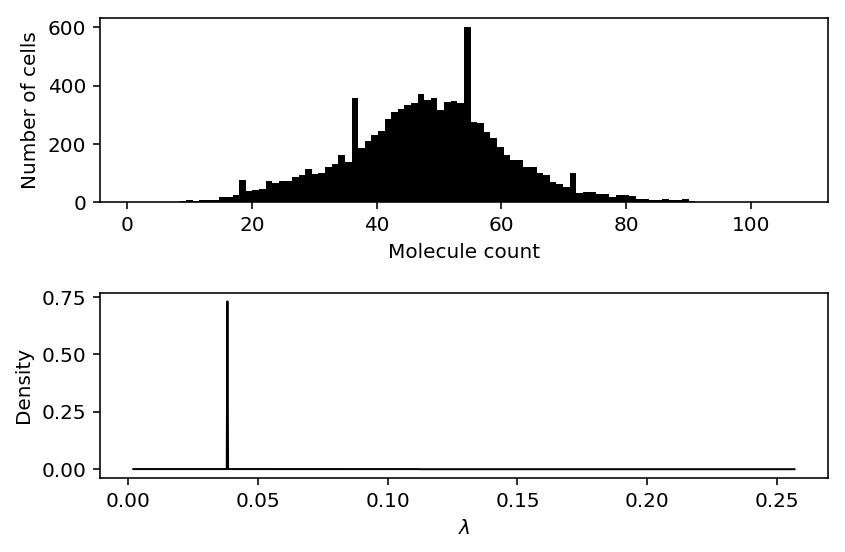
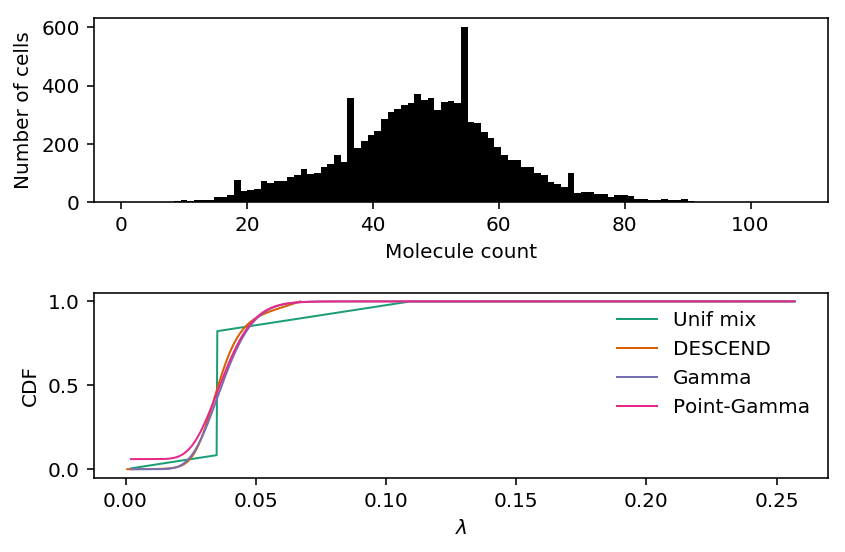
Compare deconvolution methods on one example

diff --git a/docs/deconvolution.html b/docs/deconvolution.html
@@ -1,7 +1,7 @@
 <!DOCTYPE html>
 <html lang="en">
 <head>
-<!-- 2019-03-21 Thu 21:39 -->
+<!-- 2019-03-22 Fri 23:17 -->
 <meta charset="utf-8">
 <meta name="viewport" content="width=device-width, initial-scale=1">
 <title>Comparison of expression deconvolution approaches</title>
@@ -315,8 +315,8 @@ generalization for different choices of \(\mathcal{G}\) in real data.
 rpy2.robjects.pandas2ri.activate()
 rpy2.robjects.numpy2ri.activate()
 
-<span class="org-variable-name">descend</span> = rpy2.robjects.packages.importr(<span class="org-string">'descend'</span>)
 <span class="org-variable-name">ashr</span> = rpy2.robjects.packages.importr(<span class="org-string">'ashr'</span>)
+<span class="org-variable-name">descend</span> = rpy2.robjects.packages.importr(<span class="org-string">'descend'</span>)
 </pre>
 </div>
 
@@ -371,20 +371,19 @@ to recover \(\lambda_{ij}\). We can trade off flexibility and complexity of
 <li><b>NB:</b> \(g_j = \mathrm{Gamma}(\cdot)\)</li>
 <li><b>ZINB:</b> \(g_j = \pi_j \delta_0(\cdot) + (1 - \pi_j)
       \mathrm{Gamma}(\cdot)\)</li>
-<li><b>Unimodal:</b> \(g_j = \sum_k \pi_k \mathrm{Uniform}(\lambda_0, a_{jk})\),
-where \(\lambda_0\) is the mode (jointly estimated from the
-data). Implemented in <code>ashR</code>.</li>
-<li><b>Spline:</b> \(g_j = \exp(\mathbf{Q}'\alpha - \phi(\alpha))\), where
+<li><b>Generalized adaptive shrinkage:</b> \(g_j = \sum_k \pi_k
+      \mathrm{Uniform}(\lambda_0, a_{jk})\), where \(\lambda_0\) is the mode
+(jointly estimated from the data).</li>
+<li><b>DESCEND:</b> \(g_j = \exp(\mathbf{Q}'\alpha - \phi(\alpha))\), where
 \(\mathbf{Q}\) is a \(5 \times K\) discretized degree 5 cubic
-spline. Implemented in <code>DESCEND</code>.</li>
-<li><b>Nonparametric:</b> \(g_j = \sum_k \pi_k \mathrm{Uniform}(a_k, a_{k+1})\),
-where \(a_1, \ldots, a_K\) define a uniform grid. Implemented in <code>ashR</code>.</li>
+spline.</li>
+<li><b>Nonparametric:</b> \(g_j = \sum_k \pi_k \mathrm{Uniform}(ak, a(k + 1))\),
+where \(a\) is a step size.</li>
 </ol>
 
 <p>
 In order to evaluate methods on their ability to estimate \(g_j\), we hold
-out samples in a cross-validation setting, and score methods on the log
-likelihood of the held out data.
+out a validation set, and score methods on validation log likelihood.
 </p>
 
 <div class="org-src-container">
@@ -466,7 +465,7 @@ Use sorted cells from Zheng et al. 2016 as a baseline.
 </p>
 
 <div class="org-src-container">
-<pre class="src src-ipython"><span class="org-keyword">def</span> <span class="org-function-name">cd8_cytotoxic_t_cells</span>(min_detect=0.25):
+<pre class="src src-ipython" id="org0201dc2"><span class="org-keyword">def</span> <span class="org-function-name">cd8_cytotoxic_t_cells</span>(min_detect=0.25):
   <span class="org-variable-name">counts</span> = scipy.io.mmread(<span class="org-string">'/project2/mstephens/aksarkar/projects/singlecell-ideas/data/10xgenomics/cd8+_cytotoxic_t_cells/filtered_matrices_mex/hg19/matrix.mtx.gz'</span>).tocsr()
   <span class="org-variable-name">counts</span> = counts[((counts &gt; 0).mean(axis=1) &gt;= min_detect).A.ravel()].T.A.astype(np.<span class="org-builtin">int</span>)
   <span class="org-keyword">return</span> counts
@@ -490,21 +489,119 @@ Look at some examples.
 </pre>
 </div>
 
+<p>
+Fit Poisson ash.
+</p>
+
 <div class="org-src-container">
-<pre class="src src-ipython"><span class="org-variable-name">res</span> = ashr.ash_workhorse(
+<pre class="src src-ipython"><span class="org-variable-name">ash_res</span> = ashr.ash_workhorse(
   pd.Series(np.zeros(x.shape[0])),
-  pd.Series(np.ones(x.shape[0])),
+  1,
   lik=ashr.lik_pois(y=xj, scale=size_factor, link=<span class="org-string">'identity'</span>),
-  mode=lam.mean())
-<span class="org-variable-name">Fj</span> = ashr.cdf_ash(res, np.linspace(lam.<span class="org-builtin">min</span>(), lam.<span class="org-builtin">max</span>(), 1000))
+  mode=pd.Series([lam.<span class="org-builtin">min</span>(), lam.<span class="org-builtin">max</span>()]))
+<span class="org-variable-name">ash_cdf</span> = ashr.cdf_ash(ash_res, np.linspace(lam.<span class="org-builtin">min</span>(), lam.<span class="org-builtin">max</span>(), 1000))
+</pre>
+</div>
+
+<p>
+Fit DESCEND.
+</p>
+
+<div class="org-src-container">
+<pre class="src src-ipython"><span class="org-variable-name">descend_res</span> = descend.deconvSingle(xj, scaling_consts=size_factor)
+</pre>
+</div>
+
+<p>
+Fit NB/ZINB.
+</p>
+
+<div class="org-src-container">
+<pre class="src src-ipython"><span class="org-keyword">import</span> numpy <span class="org-keyword">as</span> np
+<span class="org-keyword">import</span> pandas <span class="org-keyword">as</span> pd
+<span class="org-keyword">import</span> scipy.io
+<span class="org-keyword">import</span> scqtl
+&lt;&lt;read-zheng&gt;&gt;
+<span class="org-variable-name">x</span> = cd8_cytotoxic_t_cells()
+<span class="org-variable-name">size_factor</span> = x.<span class="org-builtin">sum</span>(axis=1).reshape(-1, 1)
+<span class="org-variable-name">onehot</span> = np.ones((x.shape[0], 1))
+<span class="org-variable-name">design</span> = np.zeros((x.shape[0], 1))
+<span class="org-variable-name">init</span> = scqtl.tf.fit(
+  umi=x.astype(np.float32),
+  onehot=onehot.astype(np.float32),
+  design=design.astype(np.float32),
+  size_factor=size_factor.astype(np.float32),
+  learning_rate=1e-3,
+  max_epochs=30000,
+  verbose=<span class="org-constant">True</span>)
+pd.DataFrame(init[0]).to_csv(<span class="org-string">'/project2/mstephens/aksarkar/projects/singlecell-modes/data/zheng-cd8-nb-log-mu.txt.gz'</span>, compression=<span class="org-string">'gzip'</span>, sep=<span class="org-string">'\t'</span>)
+pd.DataFrame(init[1]).to_csv(<span class="org-string">'/project2/mstephens/aksarkar/projects/singlecell-modes/data/zheng-cd8-nb-log-phi.txt.gz'</span>, compression=<span class="org-string">'gzip'</span>, sep=<span class="org-string">'\t'</span>)
+<span class="org-variable-name">log_mu</span>, <span class="org-variable-name">log_phi</span>, <span class="org-variable-name">logodds</span>, <span class="org-variable-name">nb_llik</span>, <span class="org-variable-name">zinb_llik</span> = scqtl.tf.fit(
+  umi=x.astype(np.float32),
+  onehot=onehot.astype(np.float32),
+  design=design.astype(np.float32),
+  size_factor=size_factor.astype(np.float32),
+  learning_rate=1e-3,
+  max_epochs=30000,
+  warm_start=init[:3],
+  verbose=<span class="org-constant">True</span>)
+pd.DataFrame(log_mu).to_csv(<span class="org-string">'/project2/mstephens/aksarkar/projects/singlecell-modes/data/zheng-cd8-zinb-log-mu.txt.gz'</span>, compression=<span class="org-string">'gzip'</span>, sep=<span class="org-string">'\t'</span>)
+pd.DataFrame(log_phi).to_csv(<span class="org-string">'/project2/mstephens/aksarkar/projects/singlecell-modes/data/zheng-cd8-zinb-log-phi.txt.gz'</span>, compression=<span class="org-string">'gzip'</span>, sep=<span class="org-string">'\t'</span>)
+pd.DataFrame(logodds).to_csv(<span class="org-string">'/project2/mstephens/aksarkar/projects/singlecell-modes/data/zheng-cd8-zinb-logodds.txt.gz'</span>, compression=<span class="org-string">'gzip'</span>, sep=<span class="org-string">'\t'</span>)
+</pre>
+</div>
+
+<div class="org-src-container">
+<pre class="src src-sh">sbatch --partition=gpu2 --gres=gpu:1 --mem=16G --time=60:00 --job-name=fit-nb
+<span class="org-comment-delimiter">#</span><span class="org-comment">!/bin/bash</span>
+<span class="org-builtin">source</span> activate scmodes
+python /project2/mstephens/aksarkar/projects/singlecell-modes/code/fit-nb.py
+</pre>
+</div>
+
+<p>
+Submitted batch job 58803475
+</p>
+
+<div class="org-src-container">
+<pre class="src src-ipython"><span class="org-variable-name">j</span> = <span class="org-builtin">str</span>(x.mean(axis=0).argmax())
+<span class="org-variable-name">nb_log_mu</span> = pd.read_csv(<span class="org-string">'/project2/mstephens/aksarkar/projects/singlecell-modes/data/zheng-cd8-nb-log-mu.txt.gz'</span>, sep=<span class="org-string">'\t'</span>)
+<span class="org-variable-name">nb_log_phi</span> = pd.read_csv(<span class="org-string">'/project2/mstephens/aksarkar/projects/singlecell-modes/data/zheng-cd8-nb-log-phi.txt.gz'</span>, sep=<span class="org-string">'\t'</span>)
+<span class="org-comment-delimiter"># </span><span class="org-comment">Gamma (Use MATLAB and MATHEMATICA (b=theta=scale, a=alpha=shape) definition)</span>
+<span class="org-comment-delimiter"># </span><span class="org-comment">https://github.com/scipy/scipy/blob/v1.2.1/scipy/stats/_continuous_distns.py#L2479     </span>
+<span class="org-variable-name">gamma_cdf</span> = st.gamma(a=np.exp(-nb_log_phi[j]), scale=np.exp(nb_log_mu[j] + nb_log_phi[j])).cdf(np.linspace(lam.<span class="org-builtin">min</span>(), lam.<span class="org-builtin">max</span>(), 1000))
+</pre>
+</div>
+
+<div class="org-src-container">
+<pre class="src src-ipython"><span class="org-variable-name">zinb_log_mu</span> = pd.read_csv(<span class="org-string">'/project2/mstephens/aksarkar/projects/singlecell-modes/data/zheng-cd8-zinb-log-mu.txt.gz'</span>, sep=<span class="org-string">'\t'</span>)
+<span class="org-variable-name">zinb_log_phi</span> = pd.read_csv(<span class="org-string">'/project2/mstephens/aksarkar/projects/singlecell-modes/data/zheng-cd8-zinb-log-phi.txt.gz'</span>, sep=<span class="org-string">'\t'</span>)
+<span class="org-variable-name">zinb_logodds</span> = pd.read_csv(<span class="org-string">'/project2/mstephens/aksarkar/projects/singlecell-modes/data/zheng-cd8-zinb-log-phi.txt.gz'</span>, sep=<span class="org-string">'\t'</span>)
+<span class="org-variable-name">point_gamma_cdf</span> = st.gamma(a=np.exp(-zinb_log_phi[j]), scale=np.exp(zinb_log_mu[j] + zinb_log_phi[j])).cdf(np.linspace(lam.<span class="org-builtin">min</span>(), lam.<span class="org-builtin">max</span>(), 1000))
+<span class="org-variable-name">point_gamma_cdf</span> *= sp.expit(-zinb_logodds[j].values)
+<span class="org-variable-name">point_gamma_cdf</span> += sp.expit(zinb_logodds[j].values)
+</pre>
+</div>
+
+<div class="org-src-container">
+<pre class="src src-ipython"><span class="org-variable-name">cm</span> = plt.get_cmap(<span class="org-string">'Dark2'</span>).colors
 <span class="org-variable-name">fig</span>, <span class="org-variable-name">ax</span> = plt.subplots(2, 1)
 ax[0].hist(xj, bins=100, color=<span class="org-string">'k'</span>)
 ax[0].set_xlabel(<span class="org-string">'Molecule count'</span>)
 ax[0].set_ylabel(<span class="org-string">'Number of cells'</span>)
 
-ax[1].plot(np.array(Fj.rx2(<span class="org-string">'x'</span>))[:-1], np.diff(np.array(Fj.rx2(<span class="org-string">'y'</span>)).ravel()), c=<span class="org-string">'k'</span>, lw=1)
+ax[1].plot(np.array(ash_cdf.rx2(<span class="org-string">'x'</span>)),
+           np.array(ash_cdf.rx2(<span class="org-string">'y'</span>)).ravel(), c=cm[0], lw=1, label=<span class="org-string">'Unif mix'</span>)
+<span class="org-variable-name">F</span> = np.cumsum(np.array(descend_res.slots[<span class="org-string">'density.points'</span>])[:,1])
+ax[1].plot(np.array(descend_res.slots[<span class="org-string">'density.points'</span>])[:,0],
+           F / F.<span class="org-builtin">max</span>(), c=cm[1], lw=1, label=<span class="org-string">'DESCEND'</span>)
+ax[1].plot(np.linspace(lam.<span class="org-builtin">min</span>(), lam.<span class="org-builtin">max</span>(), 1000), gamma_cdf, color=cm[2], lw=1, label=<span class="org-string">'Gamma'</span>)
+ax[1].plot(np.linspace(lam.<span class="org-builtin">min</span>(), lam.<span class="org-builtin">max</span>(), 1000), point_gamma_cdf, color=cm[3], lw=1, label=<span class="org-string">'Point-Gamma'</span>)
 ax[1].set_xlabel(<span class="org-string">'$\lambda$'</span>)
-ax[1].set_ylabel(<span class="org-string">'Density'</span>)
+ax[1].set_ylabel(<span class="org-string">'CDF'</span>)
+
+ax[1].legend(frameon=<span class="org-constant">False</span>)
+
 fig.tight_layout()
 </pre>
 </div>
@@ -542,7 +639,7 @@ fig.tight_layout()
 </div>
 <div id="postamble" class="status">
 <p class="author">Author: Abhishek Sarkar</p>
-<p class="date">Created: 2019-03-21 Thu 21:39</p>
+<p class="date">Created: 2019-03-22 Fri 23:17</p>
 <p class="validation"><a href="http://validator.w3.org/check?uri=referer">Validate</a></p>
 </div>
 </body>
